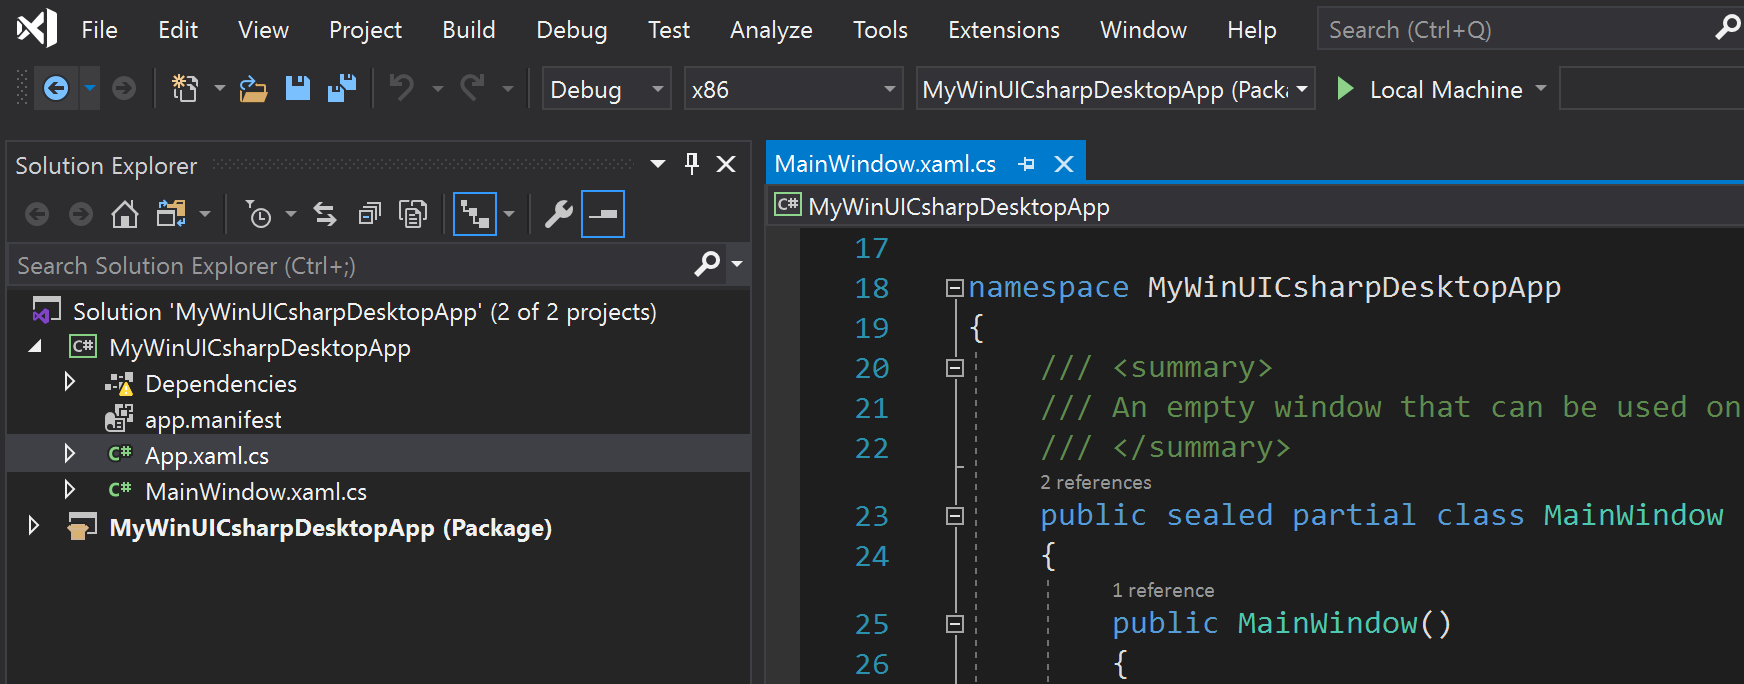
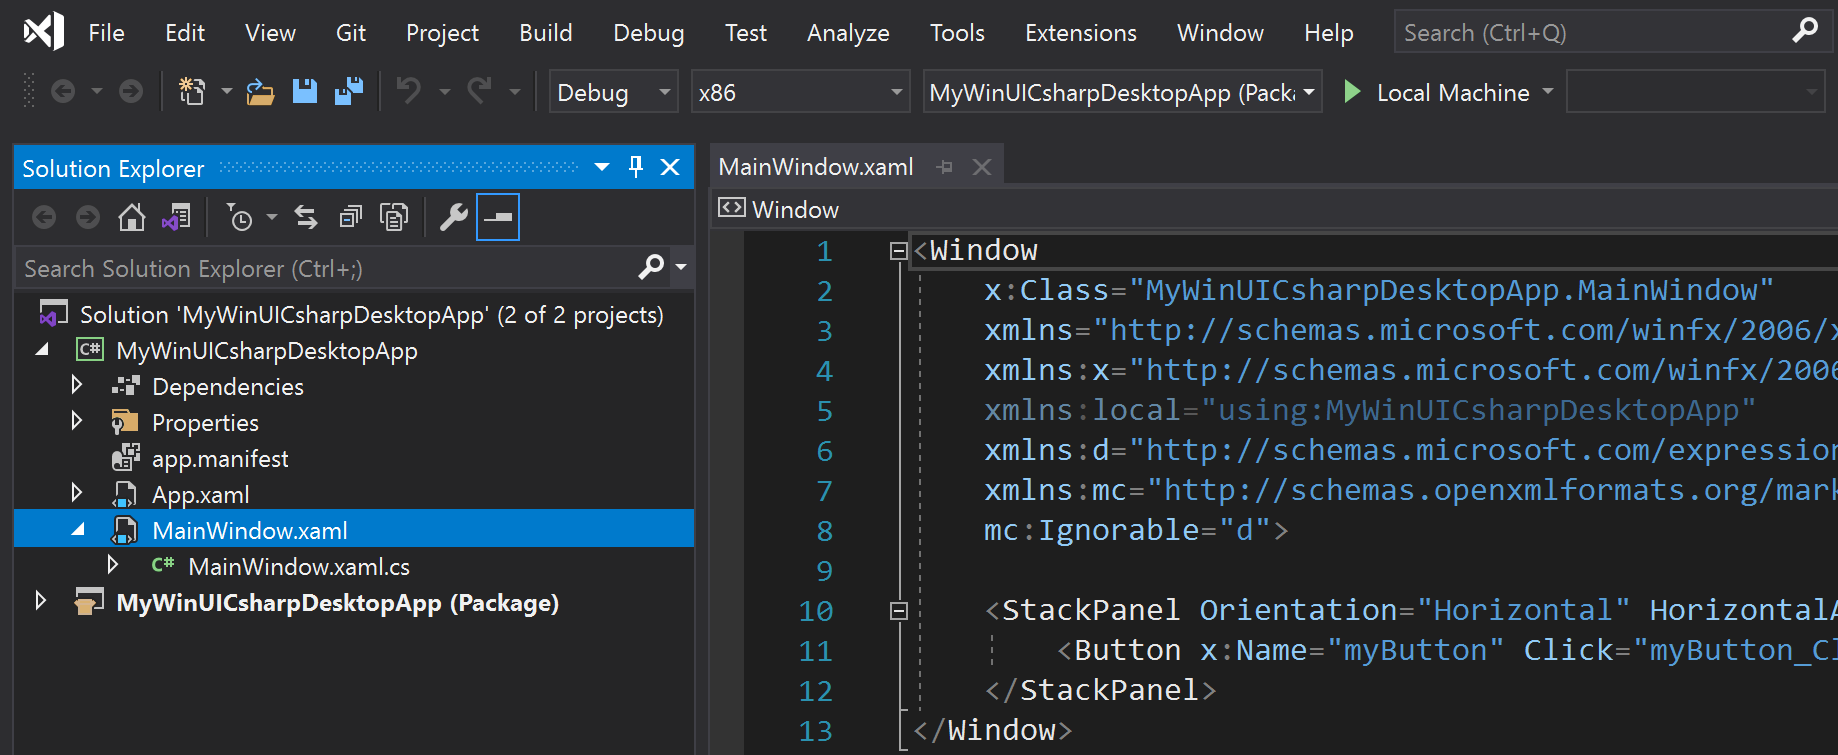
Updated C# desktop WinUI screenshot and related text (#1134)

diff --git a/hub/apps/winui/winui3/get-started-winui3-for-desktop.md b/hub/apps/winui/winui3/get-started-winui3-for-desktop.md
@@ -36,7 +36,7 @@ To use the WinUI 3 for desktop project templates described in this article, conf
 
 6. At this point, Visual Studio generates two projects:
 
-    * ***Project name* (Desktop)**: This project contains your app's code. The **App.xaml.cs** code file defines an `Application` class that represents your app instance, and the **MainWindow.xaml.cs** code file defines a `MainWindow` class that represents the main window displayed by your app. These classes derive from types in the **Microsoft.UI.Xaml** namespace provided by WinUI.
+    * ***Project name* (Desktop)**: This project contains your app's code. The **App.xaml** file and **App.xaml.cs** code-behind file define an `Application` class that represents your app instance. The **MainWindow.xaml** file and **MainWindow.xaml.cs** code-behind file define a `MainWindow` class that represents the main window displayed by your app. These classes derive from types in the **Microsoft.UI.Xaml** namespace provided by WinUI.
 
         ![Screenshot of Visual Studio showing the Solution Explorer pane and the contents of the Main Windows X A M L dot C S file.](images/WinUI-csharp-appproject.png)
 
